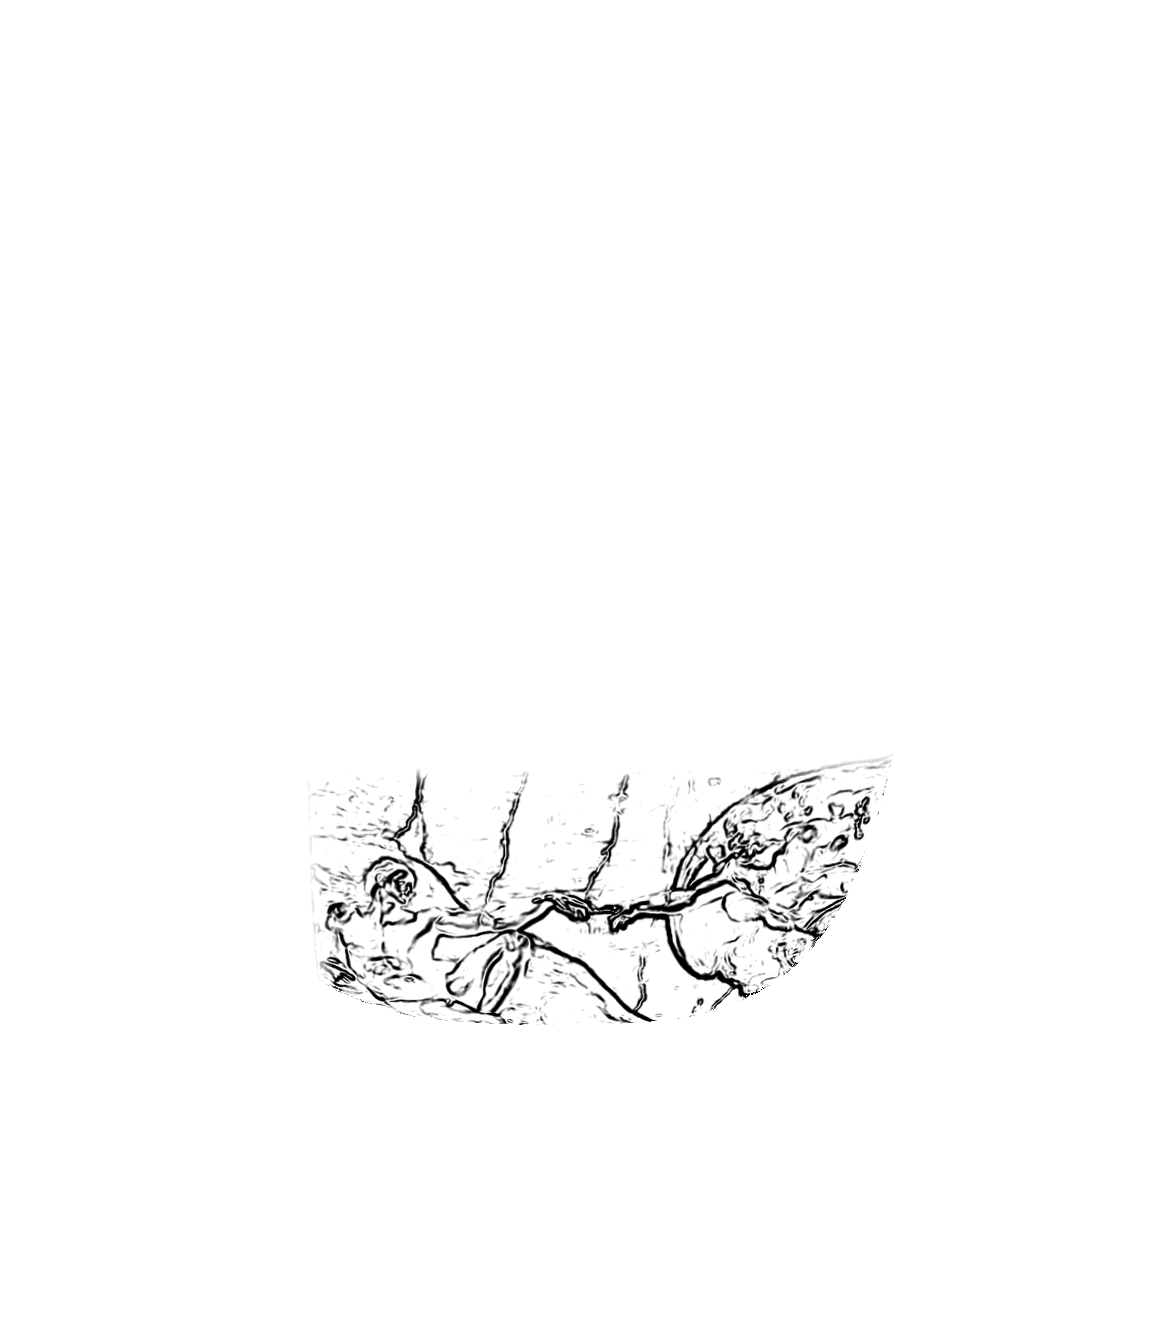
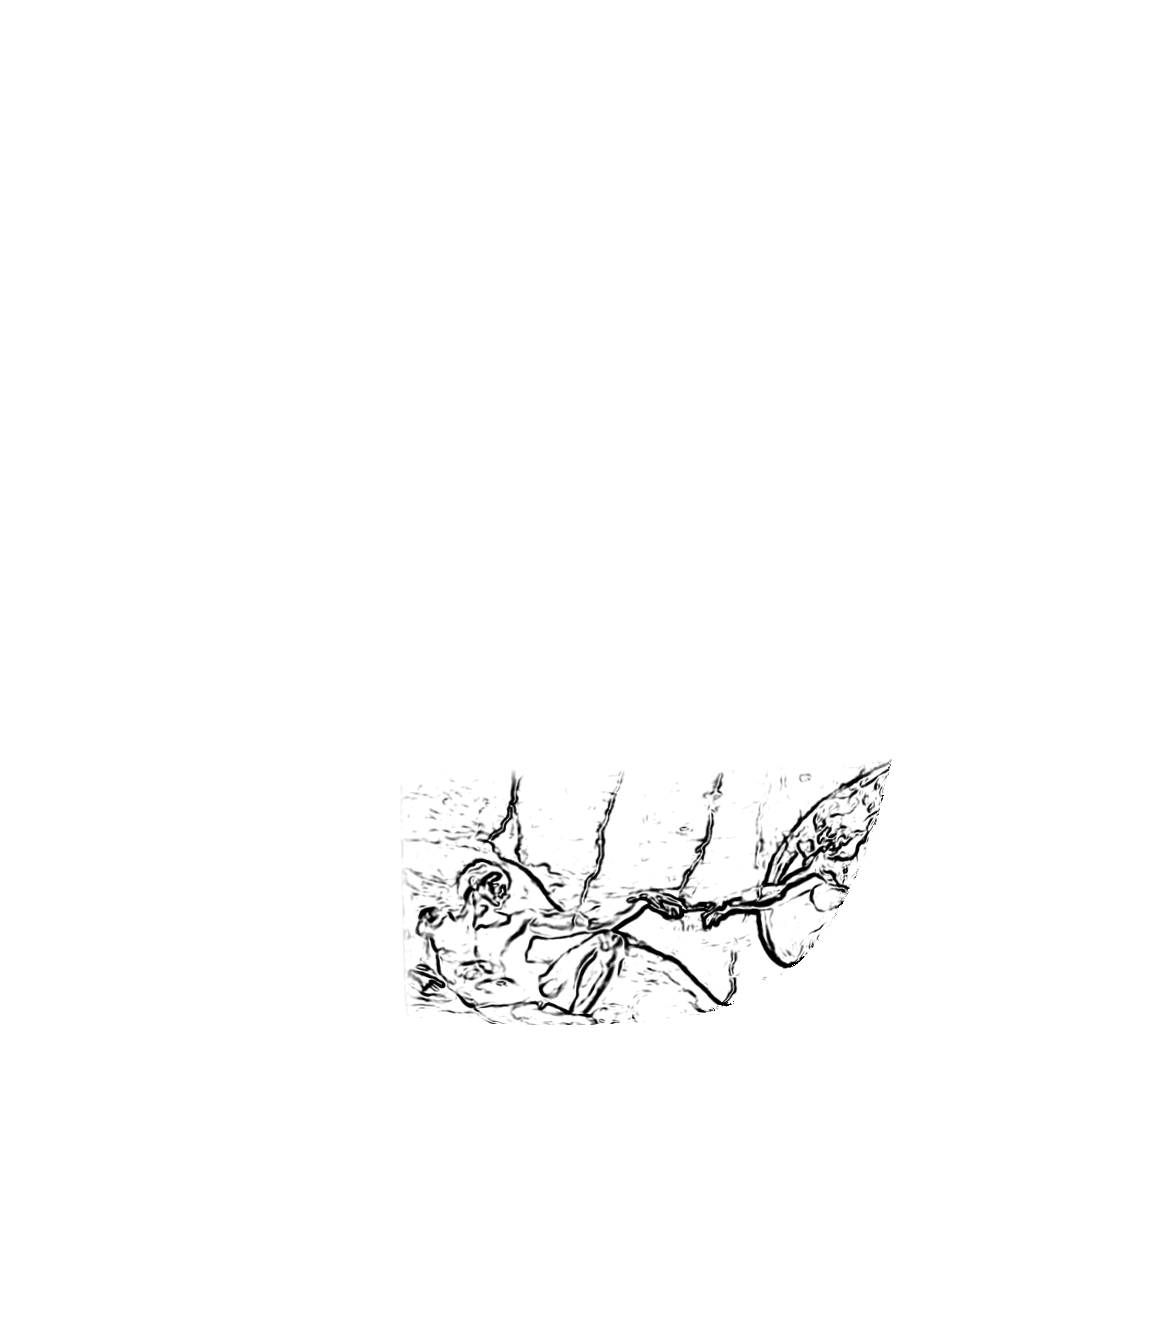
El Adan, otros setenta pixeles: de x=258 a x=328
«Mas a la derecha», segunda vez. La hoja va ya cien pixeles a la derecha
de donde nacio, en dos pasos: 228 -> 258 -> 328.

Lo que se gana es lo que ella busca: la figura de Adan, que antes caia
fuera del hueco, ancla ahora el centro de la copa. Lo que se paga, y son
dos cosas porque la ventana NO se mueve —la fija la copa del menton, no
la hoja—: sale la mandorla de Dios por la derecha y se abre hueco por la
izquierda. Tinta viva dentro de la carcasa, paso a paso: 100 % en 228,
95,2 en 258, 84,3 en 288, 80,2 en 308 y 77,7 en 328.

Y queda escrito donde esta el muro, para la proxima vez que alguien
quiera correrlo: los dos dedos que se tocan estan en (520,240) del
original de 1280x720 —el 39,4 % del ancho del recorte, o sea x+221—, asi
que en 328 caen en 549 contra un canto que los recorta en ~620. Quedan
71 px. Otros setenta se los comen, y a partir de ahi lo que se pierde ya
no es fondo sino el asunto del cuadro; entonces lo que hay que mover es
el RECORTE y no la caja.

Contrastes intactos: Leonardo 2,21, Ariadna 2,26, Adan 2,25. Artifact
v276.

Changed region(s): [[0.2793, 0.5524, 0.7759, 0.7672]]

diff --git a/index.html b/index.html
@@ -1456,19 +1456,32 @@ body.has-cur .cowl{ --rw:46%; --rh:13%; }
    Se comba con la pieza por la misma proyección que la malla, como
    cualquier calca que entre aquí.
 
-   Y VA EN x=258, TREINTA PÍXELES A LA DERECHA DE DONDE NACIÓ. Lo pidió
-   ella: «la foto de miguel un poco más a la derecha». Nació en x=228
-   para que los dos dedos que se tocan cayeran en el EJE del casco
-   —axis(706)=444—, y esa alineación se pierde con el cambio: manda ella.
+   Y VA EN x=328, CIEN PÍXELES A LA DERECHA DE DONDE NACIÓ. Lo pidió
+   ella dos veces —«la foto de miguel un poco más a la derecha» y luego
+   «más a la derecha»—, así que fue en dos pasos: 228 → 258 → 328. Nació
+   en 228 para que los dos dedos que se tocan cayeran en el EJE del
+   casco, axis(706)=444; esa alineación se pierde, y se pierde a
+   sabiendas: manda ella.
 
-   LO QUE CUESTA, porque no es gratis y no se ve venir: LA VENTANA NO SE
-   MUEVE. La fija la copa del mentón, no la hoja, así que correr la hoja
-   a la derecha NO enseña más por ese lado —el canto de la tinta se queda
-   clavado en x≈625, recortado por la chapa— sino que empuja fuera la
-   mandorla de Dios y los querubines. Lo que entra a cambio es la figura
-   de Adán por la izquierda, que antes quedaba fuera. Medido: a +30 px
-   sobrevive el 95,2 % de la tinta dentro de la carcasa; a +40 el 91,3 y
-   a +60 el 84,3. Treinta es el último escalón que conserva más del 95 %.
+   LO QUE CUESTA, porque no se ve venir: LA VENTANA NO SE MUEVE. La fija
+   la copa del mentón, no la hoja. Así que correr la hoja a la derecha no
+   enseña más por ese lado —el canto de la tinta se queda clavado en
+   x≈620, donde la chapa la recorta— sino que hace DOS cosas a la vez:
+   empuja fuera la mandorla de Dios y los querubines por la derecha, y
+   abre hueco en la copa por la izquierda. Tinta viva dentro de la
+   carcasa, paso a paso: 100 % en 228, 95,2 % en 258, 84,3 % en 288,
+   80,2 % en 308 y 77,7 % en 328. Lo que entra a cambio, y es lo que ella
+   está buscando, es la figura de Adán, que antes quedaba fuera del hueco
+   y ahora ancla el centro.
+
+   Y DÓNDE ESTÁ EL MURO, medido y no supuesto, porque la próxima vez que
+   alguien quiera correrlo más conviene saberlo: los dos dedos que se
+   tocan están en (520,240) del original de 1280x720, o sea en el 39,4 %
+   del ancho del recorte, o sea en x+221. En 328 caen en 549 y el canto
+   de la copa los recorta en ≈620: quedan SETENTA Y UN PÍXELES. Otros
+   setenta de desplazamiento se los comen. De aquí en adelante lo que se
+   pierde ya no es fondo: es el asunto del cuadro. Si hiciera falta
+   correrlo más, lo que hay que mover es el RECORTE, no la caja.
 
    El horno es `dos/hornea_adan.py`. 80 kB, tinta en el 2,63 % del cuadro. */
 .cowl__adan{
